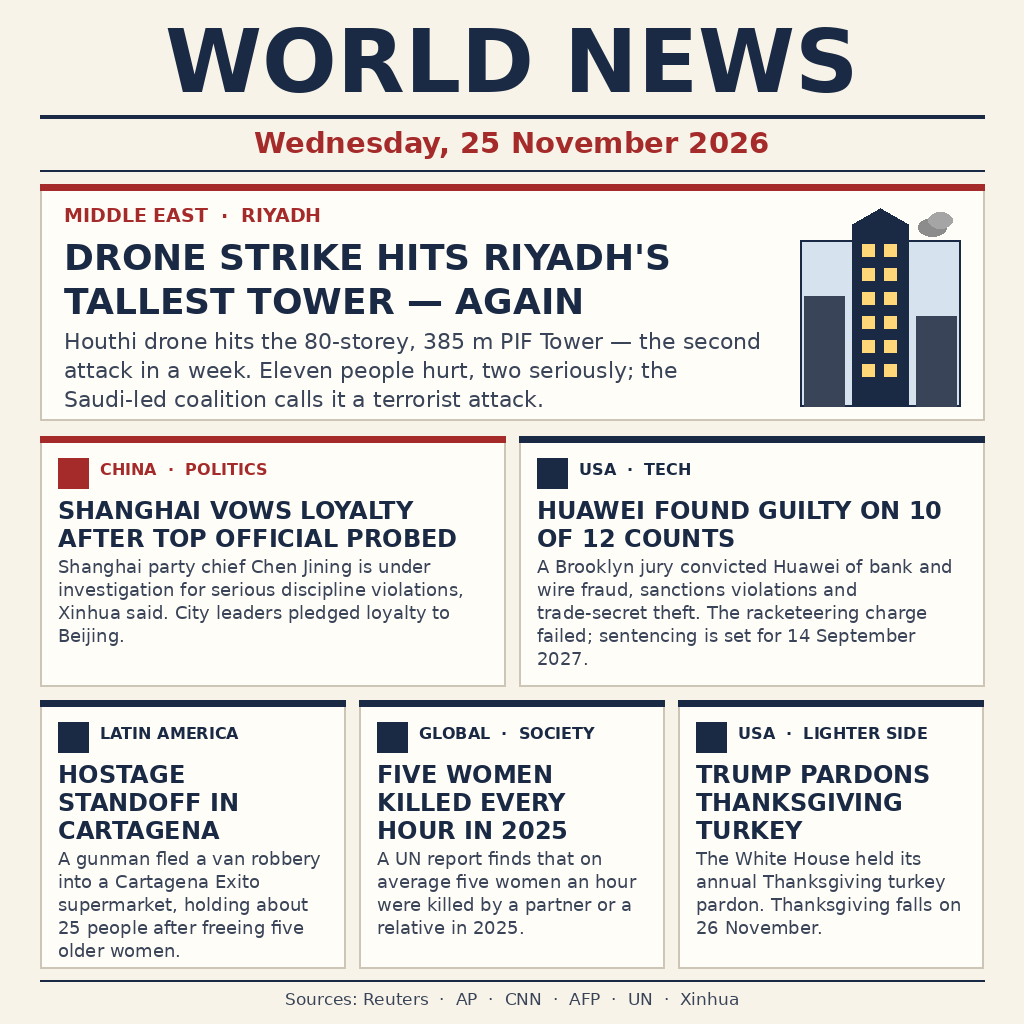
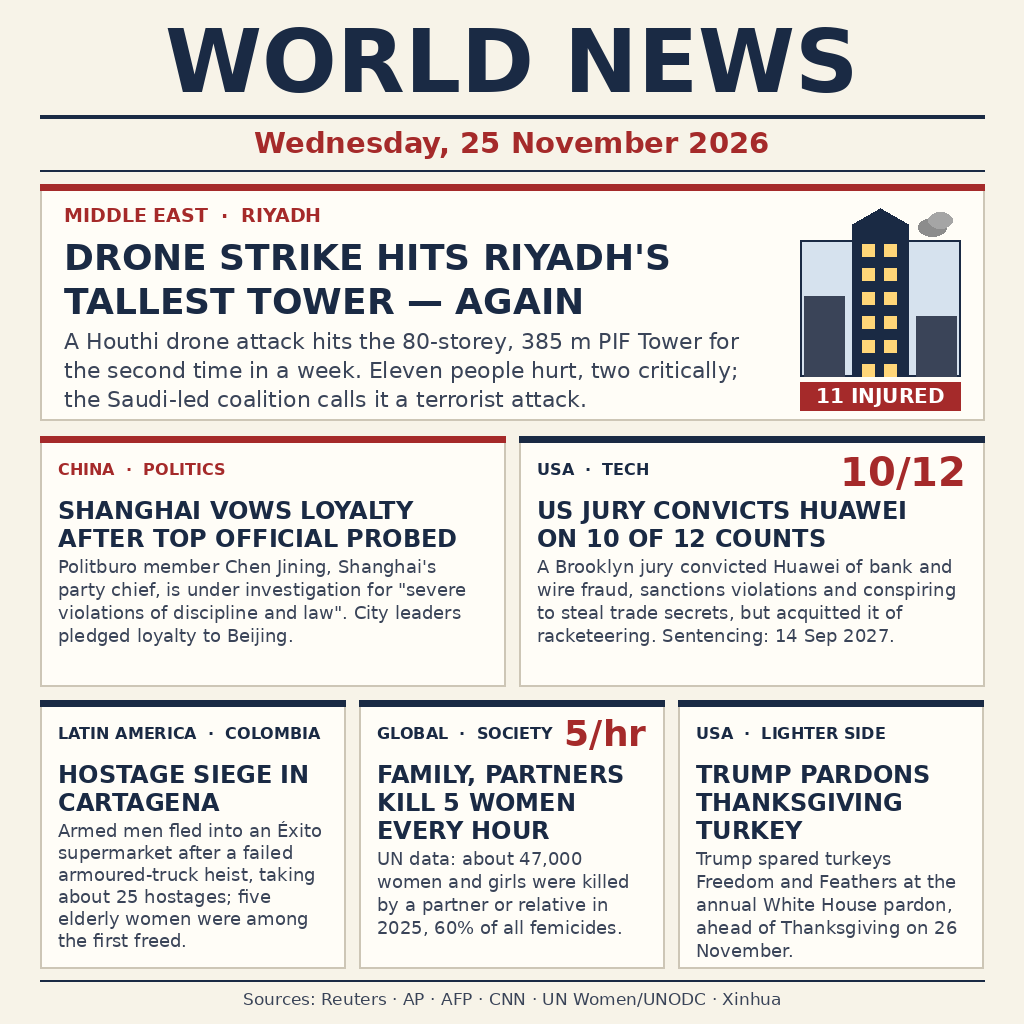
Quick review fixes: Cartagena facts, UN qualifier, layout callouts

diff --git a/render.py b/render.py
@@ -44,6 +44,7 @@ F_CELL_KICK = font("DejaVuSans-Bold.ttf", 16)
 F_CELL_TITLE = font("DejaVuSans-Bold.ttf", 24)
 F_CELL_BODY = font("DejaVuSans.ttf", 18)
 F_FOOT = font("DejaVuSans.ttf", 17)
+F_CALLOUT = font("DejaVuSans-Bold.ttf", 40)
 
 
 def wrap(draw, text, fnt, max_w):
@@ -90,7 +91,7 @@ d.text((LX + 24, LY + 20), "MIDDLE EAST  ·  RIYADH", font=F_KICK, fill=RED)
 # tower illustration on the right, fully inside the card
 TX0 = 800
 TOP = LY + 26
-BOT = LY + LH - 14
+BOT = LY + LH - 44
 d.rectangle([TX0, TOP + 30, TX0 + 160, BOT], fill=SKY, outline=INK, width=2)
 # main tower with a small peaked roof kept inside the sky box
 d.rectangle([TX0 + 52, TOP + 14, TX0 + 108, BOT], fill=TOWER)
@@ -108,36 +109,42 @@ d.rectangle([TX0 + 116, TOP + 106, TX0 + 156, BOT], fill=INK_SOFT)
 # smoke puffs, inside the sky box
 d.ellipse([TX0 + 118, TOP + 8, TX0 + 146, TOP + 26], fill=(140, 140, 140))
 d.ellipse([TX0 + 128, TOP + 2, TX0 + 152, TOP + 18], fill=(165, 165, 165))
+# red "11 INJURED" badge below the tower illustration
+d.rectangle([TX0, LY + LH - 38, TX0 + 160, LY + LH - 10], fill=RED)
+d.text(((TX0 + TX0 + 160) // 2, LY + LH - 24), "11 INJURED",
+       font=font("DejaVuSans-Bold.ttf", 20), fill=(255, 255, 255),
+       anchor="mm")
 
 y = LY + 52
 for ln in wrap(d, "DRONE STRIKE HITS RIYADH'S TALLEST TOWER — AGAIN",
                F_HEAD, 700):
     d.text((LX + 24, y), ln, font=F_HEAD, fill=INK)
     y += 44
-body = ("Houthi drone hits the 80-storey, 385 m PIF Tower — the second "
-        "attack in a week. Eleven people hurt, two seriously; the "
-        "Saudi-led coalition calls it a terrorist attack.")
+body = ("A Houthi drone attack hits the 80-storey, 385 m PIF Tower for "
+        "the second time in a week. Eleven people hurt, two critically; "
+        "the Saudi-led coalition calls it a terrorist attack.")
 draw_wrapped(d, body, F_BODY, LX + 24, y + 4, 700, INK_SOFT, leading=29)
 
 # ================= grid: 5 stories =================
 stories = [
     ("CHINA  ·  POLITICS", "SHANGHAI VOWS LOYALTY AFTER TOP OFFICIAL PROBED",
-     "Shanghai party chief Chen Jining is under investigation for serious "
-     "discipline violations, Xinhua said. City leaders pledged loyalty "
-     "to Beijing.", RED),
-    ("USA  ·  TECH", "HUAWEI FOUND GUILTY ON 10 OF 12 COUNTS",
+     "Politburo member Chen Jining, Shanghai's party chief, is under "
+     "investigation for \"severe violations of discipline and law\". "
+     "City leaders pledged loyalty to Beijing.", RED),
+    ("USA  ·  TECH", "US JURY CONVICTS HUAWEI ON 10 OF 12 COUNTS",
      "A Brooklyn jury convicted Huawei of bank and wire fraud, sanctions "
-     "violations and trade-secret theft. The racketeering charge failed; "
-     "sentencing is set for 14 September 2027.", INK),
-    ("LATIN AMERICA", "HOSTAGE STANDOFF IN CARTAGENA",
-     "A gunman fled a van robbery into a Cartagena Exito supermarket, "
-     "holding about 25 people after freeing five older women.", INK),
-    ("GLOBAL  ·  SOCIETY", "FIVE WOMEN KILLED EVERY HOUR IN 2025",
-     "A UN report finds that on average five women an hour were killed "
-     "by a partner or a relative in 2025.", INK),
+     "violations and conspiring to steal trade secrets, but acquitted it "
+     "of racketeering. Sentencing: 14 Sep 2027.", INK),
+    ("LATIN AMERICA  ·  COLOMBIA", "HOSTAGE SIEGE IN CARTAGENA",
+     "Armed men fled into an Éxito supermarket after a failed "
+     "armoured-truck heist, taking about 25 hostages; five elderly women "
+     "were among the first freed.", INK),
+    ("GLOBAL  ·  SOCIETY", "FAMILY, PARTNERS KILL 5 WOMEN EVERY HOUR",
+     "UN data: about 47,000 women and girls were killed by a partner or "
+     "relative in 2025, 60% of all femicides.", INK),
     ("USA  ·  LIGHTER SIDE", "TRUMP PARDONS THANKSGIVING TURKEY",
-     "The White House held its annual Thanksgiving turkey pardon. "
-     "Thanksgiving falls on 26 November.", INK),
+     "Trump spared turkeys Freedom and Feathers at the annual White "
+     "House pardon, ahead of Thanksgiving on 26 November.", INK),
 ]
 
 GX, GY = 40, 436
@@ -147,30 +154,43 @@ cell_w1 = (944 - GAP) // 2
 cell_w2 = (944 - 2 * GAP) // 3
 
 
-def cell(x, y, w, h, kicker, title, body, accent):
+def cell(x, y, w, h, kicker, title, body, accent, title_lines=None,
+         body_leading=23, callout=None, callout_size=40):
     d.rectangle([x, y, x + w, y + h], fill=CARD, outline=CARD_EDGE, width=2)
     d.rectangle([x, y, x + w, y + 6], fill=accent)
-    # small icon square
-    d.rectangle([x + 18, y + 22, x + 48, y + 52], fill=accent)
-    d.text((x + 60, y + 24), kicker, font=F_CELL_KICK, fill=accent)
+    d.text((x + 18, y + 24), kicker, font=F_CELL_KICK, fill=accent)
+    if callout:
+        f_call = font("DejaVuSans-Bold.ttf", callout_size)
+        cw = d.textlength(callout, font=f_call)
+        d.text((x + w - 18 - cw, y + 12), callout, font=f_call,
+               fill=RED)
     ty = y + 60
-    for ln in wrap(d, title, F_CELL_TITLE, w - 36):
+    lines = title_lines if title_lines else wrap(d, title, F_CELL_TITLE,
+                                                  w - 36)
+    for ln in lines:
         d.text((x + 18, ty), ln, font=F_CELL_TITLE, fill=INK)
         ty += 28
     draw_wrapped(d, body, F_CELL_BODY, x + 18, ty + 4, w - 36,
-                 INK_SOFT, leading=23)
+                 INK_SOFT, leading=body_leading)
 
 
-for i, s in enumerate(stories[:2]):
-    cell(GX + i * (cell_w1 + GAP), GY, cell_w1, row1_h, *s)
-for i, s in enumerate(stories[2:]):
-    cell(GX + i * (cell_w2 + GAP), GY + row1_h + GAP, cell_w2, row2_h, *s)
+cell(GX, GY, cell_w1, row1_h, *stories[0])
+cell(GX + cell_w1 + GAP, GY, cell_w1, row1_h, *stories[1],
+     title_lines=["US JURY CONVICTS HUAWEI", "ON 10 OF 12 COUNTS"],
+     callout="10/12")
+cell(GX, GY + row1_h + GAP, cell_w2, row2_h, *stories[2],
+     body_leading=22)
+cell(GX + cell_w2 + GAP, GY + row1_h + GAP, cell_w2, row2_h, *stories[3],
+     title_lines=["FAMILY, PARTNERS", "KILL 5 WOMEN", "EVERY HOUR"],
+     callout="5/hr", callout_size=36)
+cell(GX + 2 * (cell_w2 + GAP), GY + row1_h + GAP, cell_w2, row2_h,
+     *stories[4])
 
 # ================= footer =================
 fy = GY + row1_h + GAP + row2_h + 12
 d.line([(40, fy), (984, fy)], fill=RULE, width=2)
 d.text((W // 2, fy + 9),
-       "Sources: Reuters  ·  AP  ·  CNN  ·  AFP  ·  UN  ·  Xinhua",
+       "Sources: Reuters · AP · AFP · CNN · UN Women/UNODC · Xinhua",
        font=F_FOOT, fill=INK_SOFT, anchor="ma")
 
 img.save(OUT, "PNG", optimize=True)
